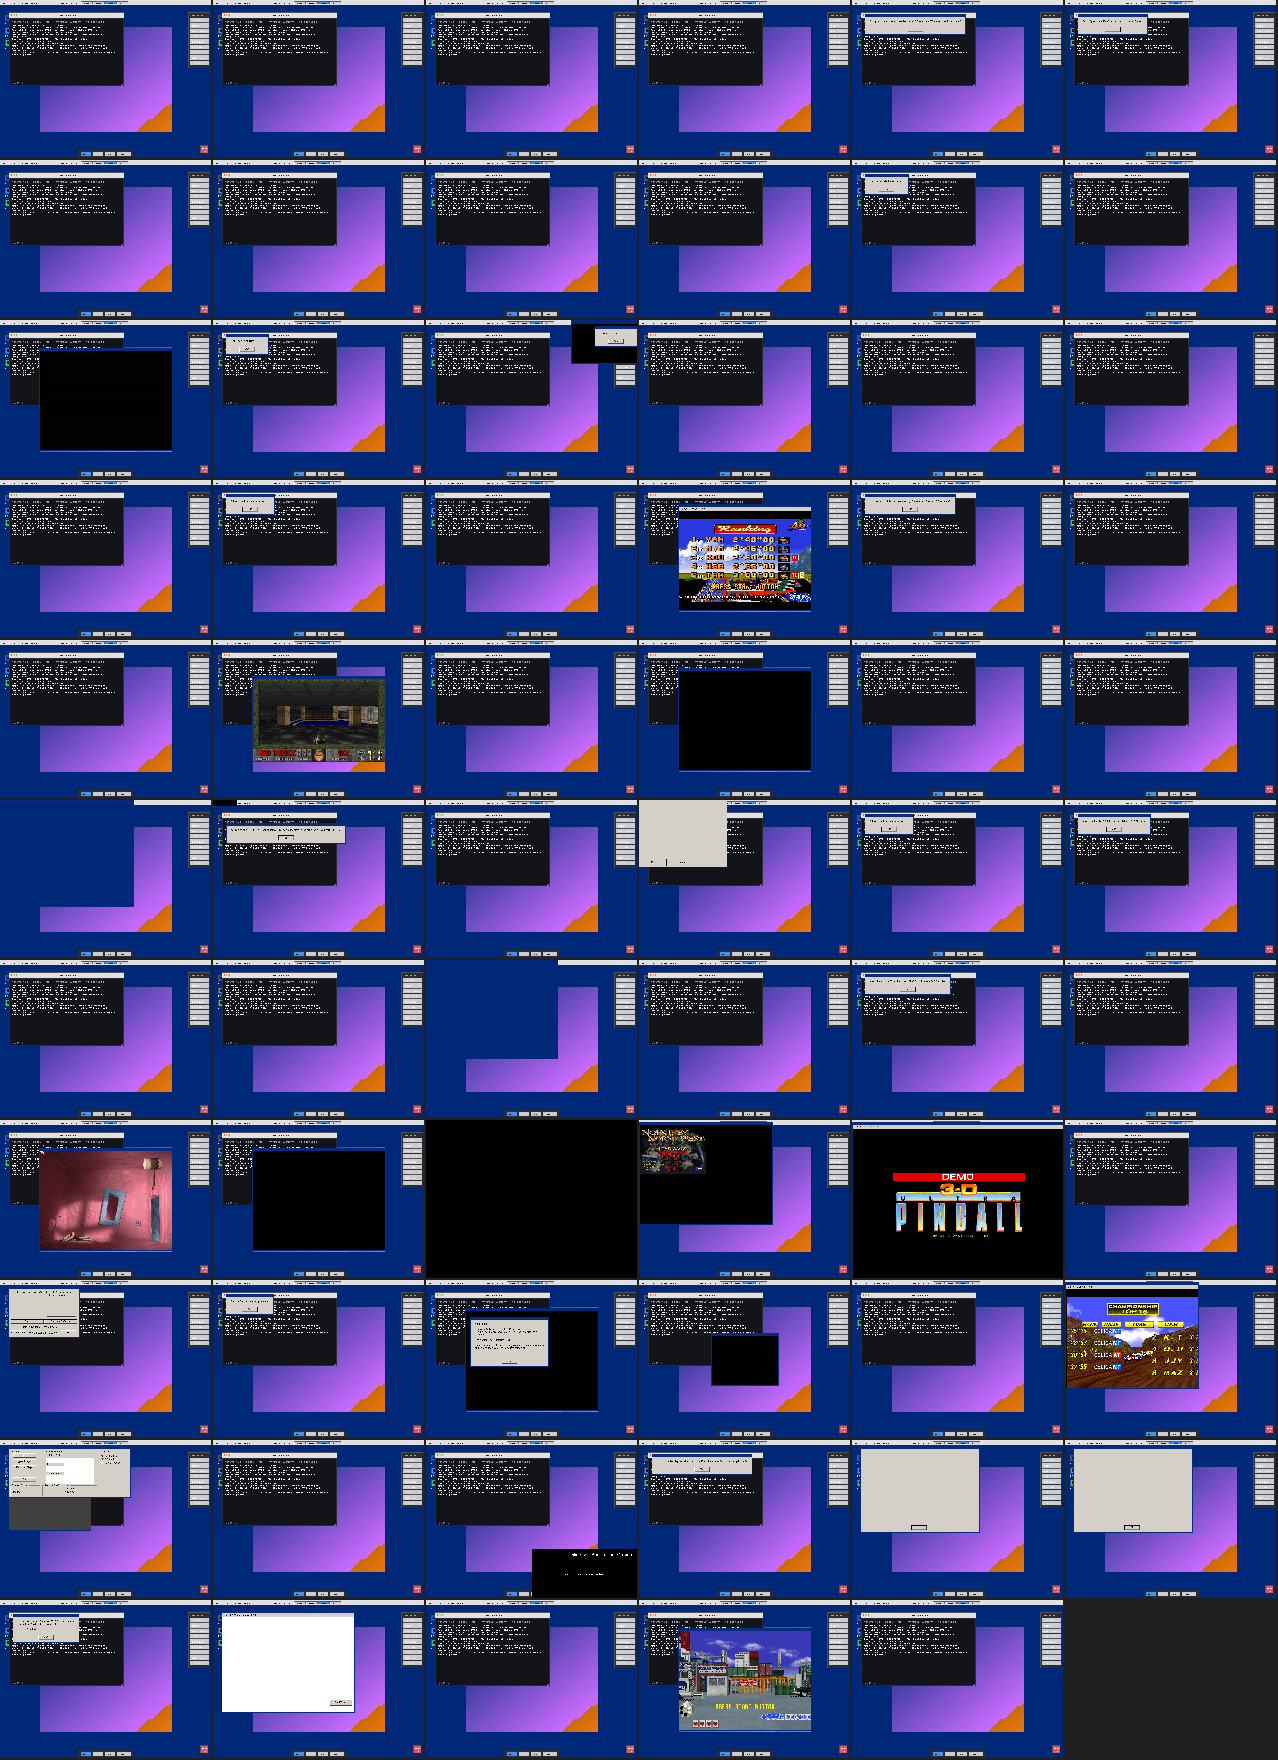
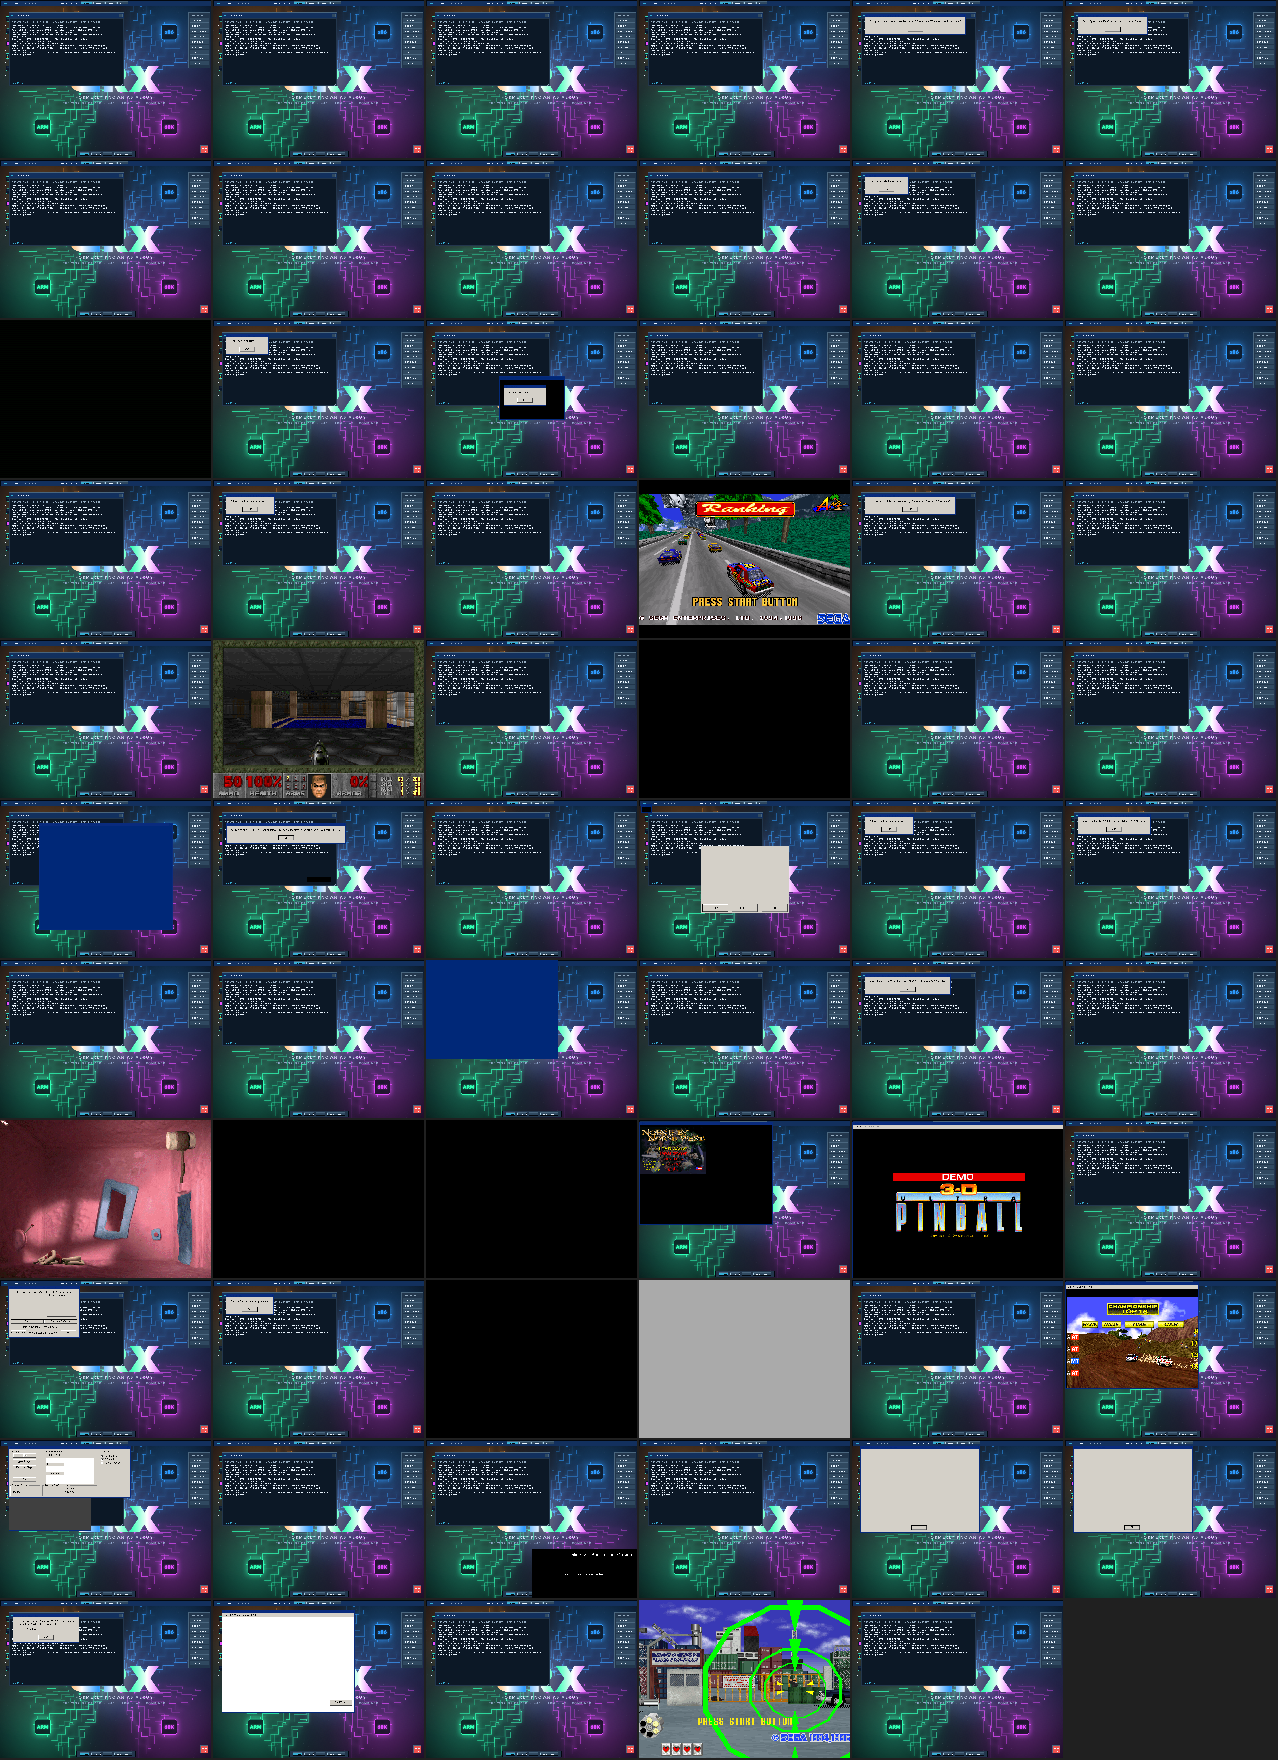
Put board RAM first so GTA 1 no longer stalls on the desktop
AROS used the 16 MiB of boot memory first. With QRXDesktop running it was down to
122 KB and qrx-win32 stopped inside malloc, with 3.9 GB free behind it.
QRXMoreMemory now moves the board RAM to the front of exec's memory list, and GTA 1
runs fullscreen on the desktop at 70 frames per second. S:GTA starts it fullscreen
again.

QRX86_PROF=1 also prints the running AROS task, free memory per region and the stack
of a waiting qrx-win32. A survey of all 68 programs shows no regression.

diff --git a/upstream/armithlon/2.6/engine/full68k/qrx86_hostjit.c b/upstream/armithlon/2.6/engine/full68k/qrx86_hostjit.c
@@ -1561,6 +1561,27 @@ static void xj_link(uint32_t *site, XBlock *b) {
 #endif
 #define XP_MAX 8000
 static struct { uint64_t pc[XP_MAX]; volatile unsigned n; mach_port_t thread; } xp;
+#define XP_BE32(p) ((uint32_t)(p)[0] << 24 | (uint32_t)(p)[1] << 16 | (uint32_t)(p)[2] << 8 | (p)[3])
+/* Which AROS task runs: SysBase at 4, ThisTask at 276, then the name at 10. */
+static struct { char name[24]; unsigned n; } xp_tasks[32];
+static void xp_task_sample(void) {
+    const uint8_t *ram = xj.cpu ? xj.cpu->ram_owned : NULL;
+    size_t size = xj.cpu ? xj.cpu->vm.ram.size : 0;
+    char name[24];
+    if (!ram) return;
+    uint32_t sys = XP_BE32(ram + 4), task = 0, np = 0;
+    if ((uint64_t)sys + 300u < size) task = XP_BE32(ram + sys + 276);
+    if (task && (uint64_t)task + 20u < size) np = XP_BE32(ram + task + 10);
+    if (!np || (uint64_t)np + 24u >= size) strcpy(name, "?");
+    else { memcpy(name, ram + np, 23); name[23] = 0; }
+    for (int i = 0; i < 32; i++) {
+        if (!xp_tasks[i].n) { strcpy(xp_tasks[i].name, name); xp_tasks[i].n = 1; return; }
+        if (!strcmp(xp_tasks[i].name, name)) { xp_tasks[i].n++; return; }
+    }
+}
+/* The door may be idle for long: the sampler reports as well. */
+static void xp_dump(void);
+static void xp_dump_due(void) { xp_dump(); }
 /* Signals would only arrive at system calls and blame those. This stops the thread. */
 static void *xp_sampler(void *arg) {
     (void)arg;
@@ -1568,10 +1589,13 @@ static void *xp_sampler(void *arg) {
         arm_thread_state64_t st;
         mach_msg_type_number_t count = ARM_THREAD_STATE64_COUNT;
         usleep(1000);
+        if (xp.n >= XP_MAX) xp_dump_due();
         if (xp.n >= XP_MAX) continue;
         if (thread_suspend(xp.thread) != KERN_SUCCESS) continue;
-        if (thread_get_state(xp.thread, ARM_THREAD_STATE64, (thread_state_t)&st, &count) == KERN_SUCCESS)
+        if (thread_get_state(xp.thread, ARM_THREAD_STATE64, (thread_state_t)&st, &count) == KERN_SUCCESS) {
             xp.pc[xp.n++] = arm_thread_state64_get_pc(st);
+            xp_task_sample();
+        }
         thread_resume(xp.thread);
     }
     return NULL;
@@ -1611,6 +1635,45 @@ static void xp_dump(void) {
     fprintf(stderr, "[QRX86-PROF] %u samples, %u%% in x86 blocks, interp %llu blocks %llu kills %llu\n", total, total ? jit * 100 / total : 0,
             (unsigned long long)xj.interp_ins, (unsigned long long)xj.blocks, (unsigned long long)xj.kills);
     for (unsigned r = 0; r < nrow && r < 28; r++) fprintf(stderr, "  %5.1f%% %s %08x\n", row[r].n * 100.0 / total, row[r].name, row[r].eip);
+    /* The tasks waiting, with what for and the top of their stacks */
+    if (xj.cpu) {
+        const uint8_t *ram = xj.cpu->ram_owned;
+        size_t size = xj.cpu->vm.ram.size;
+        uint32_t sys = XP_BE32(ram + 4), node = XP_BE32(ram + sys + 420);
+        for (int g = 0; g < 64 && node && (uint64_t)node + 64u < size; g++) {
+            uint32_t next = XP_BE32(ram + node), np = XP_BE32(ram + node + 10), sp = XP_BE32(ram + node + 54);
+            char name[24] = "?";
+            if (!next) break;
+            if (np && (uint64_t)np + 24u < size) { memcpy(name, ram + np, 23); name[23] = 0; }
+            if (strstr(name, "qrx-win32") || getenv("QRX86_PROF_ALL")) {
+                fprintf(stderr, "  wait %s sigwait=%08x recvd=%08x sp=%08x stack:", name, XP_BE32(ram + node + 22), XP_BE32(ram + node + 26), sp);
+                if ((uint64_t)sp + 8192u < size) for (int i = 0; i < 2000; i++) fprintf(stderr, " %08x", XP_BE32(ram + sp + i * 4));
+                {
+                    uint32_t segl = XP_BE32(ram + node + 128) << 2;
+                    if (segl && (uint64_t)segl + 16u < size) fprintf(stderr, " SEG %08x", XP_BE32(ram + segl + 12) << 2);
+                }
+                fprintf(stderr, "\n");
+            }
+            node = next;
+        }
+    }
+    /* Free memory per MemHeader: MemList at 322, mh_First 16, mh_Lower 20, mh_Upper 24, mh_Free 28 */
+    if (xj.cpu) {
+        const uint8_t *ram = xj.cpu->ram_owned;
+        size_t size = xj.cpu->vm.ram.size;
+        uint32_t sys = XP_BE32(ram + 4), mh = XP_BE32(ram + sys + 322);
+        fprintf(stderr, "  memory:");
+        for (int g = 0; g < 16 && mh && (uint64_t)mh + 32u < size; g++) {
+            uint32_t next = XP_BE32(ram + mh);
+            if (!next) break;
+            fprintf(stderr, " [pri %d %08x-%08x free %u]", (int)(int8_t)ram[mh + 9], XP_BE32(ram + mh + 20), XP_BE32(ram + mh + 24), XP_BE32(ram + mh + 28));
+            mh = next;
+        }
+        fprintf(stderr, "\n");
+    }
+    fprintf(stderr, "  tasks:");
+    for (int i = 0; i < 32 && xp_tasks[i].n; i++) { fprintf(stderr, " %s=%u", xp_tasks[i].name, xp_tasks[i].n); xp_tasks[i].n = 0; }
+    fprintf(stderr, "\n");
     {
         unsigned best = 0;
         for (unsigned i = 0; i < 1024; i++) if (xp_notify_page[i] > xp_notify_page[best]) best = i;
@@ -1637,7 +1700,6 @@ static int xj_run(x86cpu *c, uint32_t stop_eip) {
     {
         static int prof = -1;
         if (prof < 0) { prof = getenv("QRX86_PROF") != NULL; if (prof) xp_start(); }
-        if (prof && xp.n >= XP_MAX) xp_dump();
     }
     while (c->eip != stop_eip) {
         if ((int32_t)c->left <= 0) {

diff --git a/upstream/armithlon/2.6/engine/guest/aros/bsp/QRXMoreMemory.c b/upstream/armithlon/2.6/engine/guest/aros/bsp/QRXMoreMemory.c
@@ -7,14 +7,31 @@
 #define BOARD_RAM_SIZE (*(volatile ULONG*)0xFF000888u)
 #define START 0x02000000u
 #define STEP  0x00100000u
+/* Above the boot-time memory, which holds 16 MiB at most. Used last, that fills up and fragments
+ * until an allocation falls into AROS's low memory handling, and qrx-win32 hung there. */
+#define QRX_HIGH_RAM_PRI 60
 int main(void){
     ULONG top=BOARD_RAM_SIZE,run=0,a;
     for(a=START;a<top;a+=STEP){
         if(TypeOfMem((APTR)(a+64))){
-            if(run<a)AddMemList(a-run,MEMF_PUBLIC|MEMF_FAST,0,(APTR)run,(STRPTR)"QRX board RAM");
+            if(run<a)AddMemList(a-run,MEMF_PUBLIC|MEMF_FAST,QRX_HIGH_RAM_PRI,(APTR)run,(STRPTR)"QRX board RAM");
             run=0;
         }else if(!run)run=a;
     }
-    if(run&&run<top)AddMemList(top-run,MEMF_PUBLIC|MEMF_FAST,0,(APTR)run,(STRPTR)"QRX board RAM");
+    if(run&&run<top)AddMemList(top-run,MEMF_PUBLIC|MEMF_FAST,QRX_HIGH_RAM_PRI,(APTR)run,(STRPTR)"QRX board RAM");
+    /* The board RAM may be in the list already, behind the boot memory: put it in front. */
+    {
+        struct MemHeader *mh,*next;
+        Forbid();
+        for(mh=(struct MemHeader*)SysBase->MemList.lh_Head;(next=(struct MemHeader*)mh->mh_Node.ln_Succ)!=NULL;mh=next){
+            if((ULONG)mh->mh_Lower>=START&&mh->mh_Node.ln_Pri<QRX_HIGH_RAM_PRI){
+                Remove(&mh->mh_Node);
+                mh->mh_Node.ln_Pri=QRX_HIGH_RAM_PRI;
+                Enqueue(&SysBase->MemList,&mh->mh_Node);
+                break;
+            }
+        }
+        Permit();
+    }
     return 0;
 }

diff --git a/qrx-os-one/qrx-amiga68k-live-v0.20.3.7.4.6.6.22.5.11-amiga-launcher-jit-selftest/x86-runtime-22.5.12/win32/backend_aros.c b/qrx-os-one/qrx-amiga68k-live-v0.20.3.7.4.6.6.22.5.11-amiga-launcher-jit-selftest/x86-runtime-22.5.12/win32/backend_aros.c
@@ -395,6 +395,13 @@ static int translate(qwin *w, struct IntuiMessage *im, qevent *ev)
 
 static int ar_wait(qwin *w, uint32_t timeout, qevent *ev)
 {
+    {
+        static int said;
+        if (!said && w->verbose) {
+            said = 1;
+            qw_log(w, "AROS backend: code at %p, signals: port %d, timer %d", (void *)ar_init, g_port ? g_port->mp_SigBit : -1, g_topen ? g_tport->mp_SigBit : -1);
+        }
+    }
     for (;;) {
         struct IntuiMessage *im = (struct IntuiMessage *)GetMsg(g_port);
         if (im) {

diff --git a/docs/armithlon/performance-2026-11-03.md b/docs/armithlon/performance-2026-11-03.md
@@ -330,9 +330,13 @@ Input and sound were not judged by a person in any of them. Installers ran only 
 - Daytona's "about 60 FPS" and "correct graphics" were wrong. The track was missing. The interpreter runs REP string instructions in portions and stays on the instruction until the count is done, and a translated block went on to the next instruction regardless, losing the rest of the copy. Blocks now leave when the interpreter is somewhere else. The differential test had no REP and now has it, with large counts. With the track, Daytona runs at 40 to 50 frames per second in a race, measured with the game paused by a test key, so a race proper is still to be measured.
 - Fullscreen programs no longer get a window by default, which was a misreading of the request. They get the display as on Windows. Alt+Enter toggles any exclusive DirectDraw program at any time, and `--window` or `SetEnv QRX_WIN_MODE window` starts in a window.
 
-### Open: GTA 1 fullscreen on the desktop
+### GTA 1 fullscreen on the desktop
 
-GTA 1 stalls while loading after the menu when it runs fullscreen with QRXDesktop running: no x86 runs, 68k code keeps running. It happens with the JIT off and with the runtime of the previous commit, so neither is the cause. Without the desktop, or in a window on it, it runs at 70 frames per second. The cause is not found. `S:GTA` starts it in a window until then.
+GTA 1 stopped while loading after the menu when it ran fullscreen with QRXDesktop running. It was neither the JIT nor the runtime: `qrx-win32` waited for a signal inside `malloc`, called from `HeapAlloc`. The 16 MiB of boot memory, which was used first, had 122 KB left, with 3.9 GB free in the board RAM behind it. `QRXMoreMemory` now puts the board RAM first in exec's memory list. That fixed the stall: the game runs at 70 frames per second fullscreen, and 11.8 MiB of boot memory stay free. That AROS's low memory handling is where it waited is inferred from the stack, not seen in its source.
+
+A survey of all 68 programs afterwards shows no regression: the same six keep their frame rates (`windows-games-survey.txt`).
+
+`QRX86_PROF=1` now also prints which AROS task runs, the free memory per region, and the stack of a waiting `qrx-win32`. A task that seems to run 99% of the time is usually an idle system: AROS keeps the last task as current while it idles.
 
 ### Input
 
